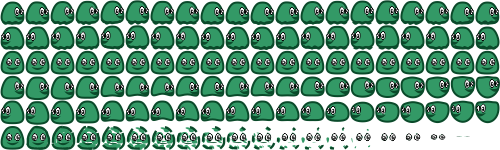
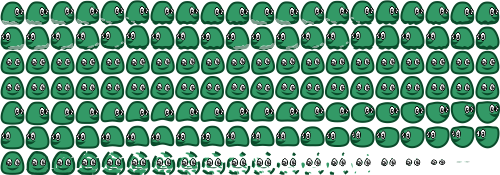
Improvements on graphics: Added some juice, fixed blob animations and slingshot animation

diff --git a/src/BlobApp/GameModel/Blob.js b/src/BlobApp/GameModel/Blob.js
@@ -153,10 +153,22 @@ BlobApp.BlobSuperClass = function() {
 	this.allowJump = function() {
 		_jumpAllowed = true;
 
-		$('body').trigger('blobanimationChanged', {
-			"blobID" : _blobID,
-			"animationKey" : AnimationKeys.IDLE1
-		});
+		if(keyLeftPressed) {
+			$('body').trigger('blobanimationChanged', {
+				"blobID" : _blobID,
+				"animationKey" : AnimationKeys.MOVELEFT
+			});
+		} else if(keyRightPressed) {
+			$('body').trigger('blobanimationChanged', {
+				"blobID" : _blobID,
+				"animationKey" : AnimationKeys.MOVERIGHT
+			});
+		} else {
+			$('body').trigger('blobanimationChanged', {
+				"blobID" : _blobID,
+				"animationKey" : AnimationKeys.IDLE1
+			});
+		}
 	},
 
 	_callDirections = function() {
@@ -202,6 +214,12 @@ BlobApp.BlobSuperClass = function() {
 		} else {
 			keyLeftPressed = false;
 			_leftReleased();
+			if(!keyRightPressed && _jumpAllowed) {
+				$('body').trigger('blobanimationChanged', {
+					"blobID" : _blobID,
+					"animationKey" : AnimationKeys.IDLE1
+				});
+			}
 		}
 
 		if(_blobID == EntityConfig.GREENBLOBID) {
@@ -227,6 +245,12 @@ BlobApp.BlobSuperClass = function() {
 		} else {
 			keyRightPressed = false;
 			_rightReleased();
+			if(!keyLeftPressed && _jumpAllowed) {
+				$('body').trigger('blobanimationChanged', {
+					"blobID" : _blobID,
+					"animationKey" : AnimationKeys.IDLE1
+				});
+			}
 		}
 
 		if(_blobID == EntityConfig.GREENBLOBID) {

diff --git a/src/BlobApp/Entities/DynamicEntities/Blob.js b/src/BlobApp/Entities/DynamicEntities/Blob.js
@@ -41,14 +41,14 @@ BlobApp.Blob = (function Blob(x_pos, y_pos, sizeX, sizeY, blobID) {
 			animations: {
 				runRight: [0,19],
 				runLeft: [20,39],
-				idle1: [40,59],
-				jumpRight: [60, 79, "jumpEndRight"],
-				jumpEndRight: [79],
-				jumpLeft: [80, 99, "jumpEndLeft"],
-				jumpEndLeft: [99],
-				teleport: [100, 119, "afterTeleport"],
+				idle1: [40,79],
+				jumpRight: [80, 99, "jumpEndRight"],
+				jumpEndRight: [99],
+				jumpLeft: [100, 119, "jumpEndLeft"],
+				jumpEndLeft: [119],
+				teleport: [120, 139, "afterTeleport"],
 				afterTeleport: {
-					frames : [119,118,117,116,115,114,113,112,111,110,109,108,107,106,105,104,103,102,101,100], 
+					frames : [139,138,137,136,135,134,133,132,131,130,129,128,127,126,125,124,123,122,121,120], 
 					next: "idle1"
 				}
 			}
